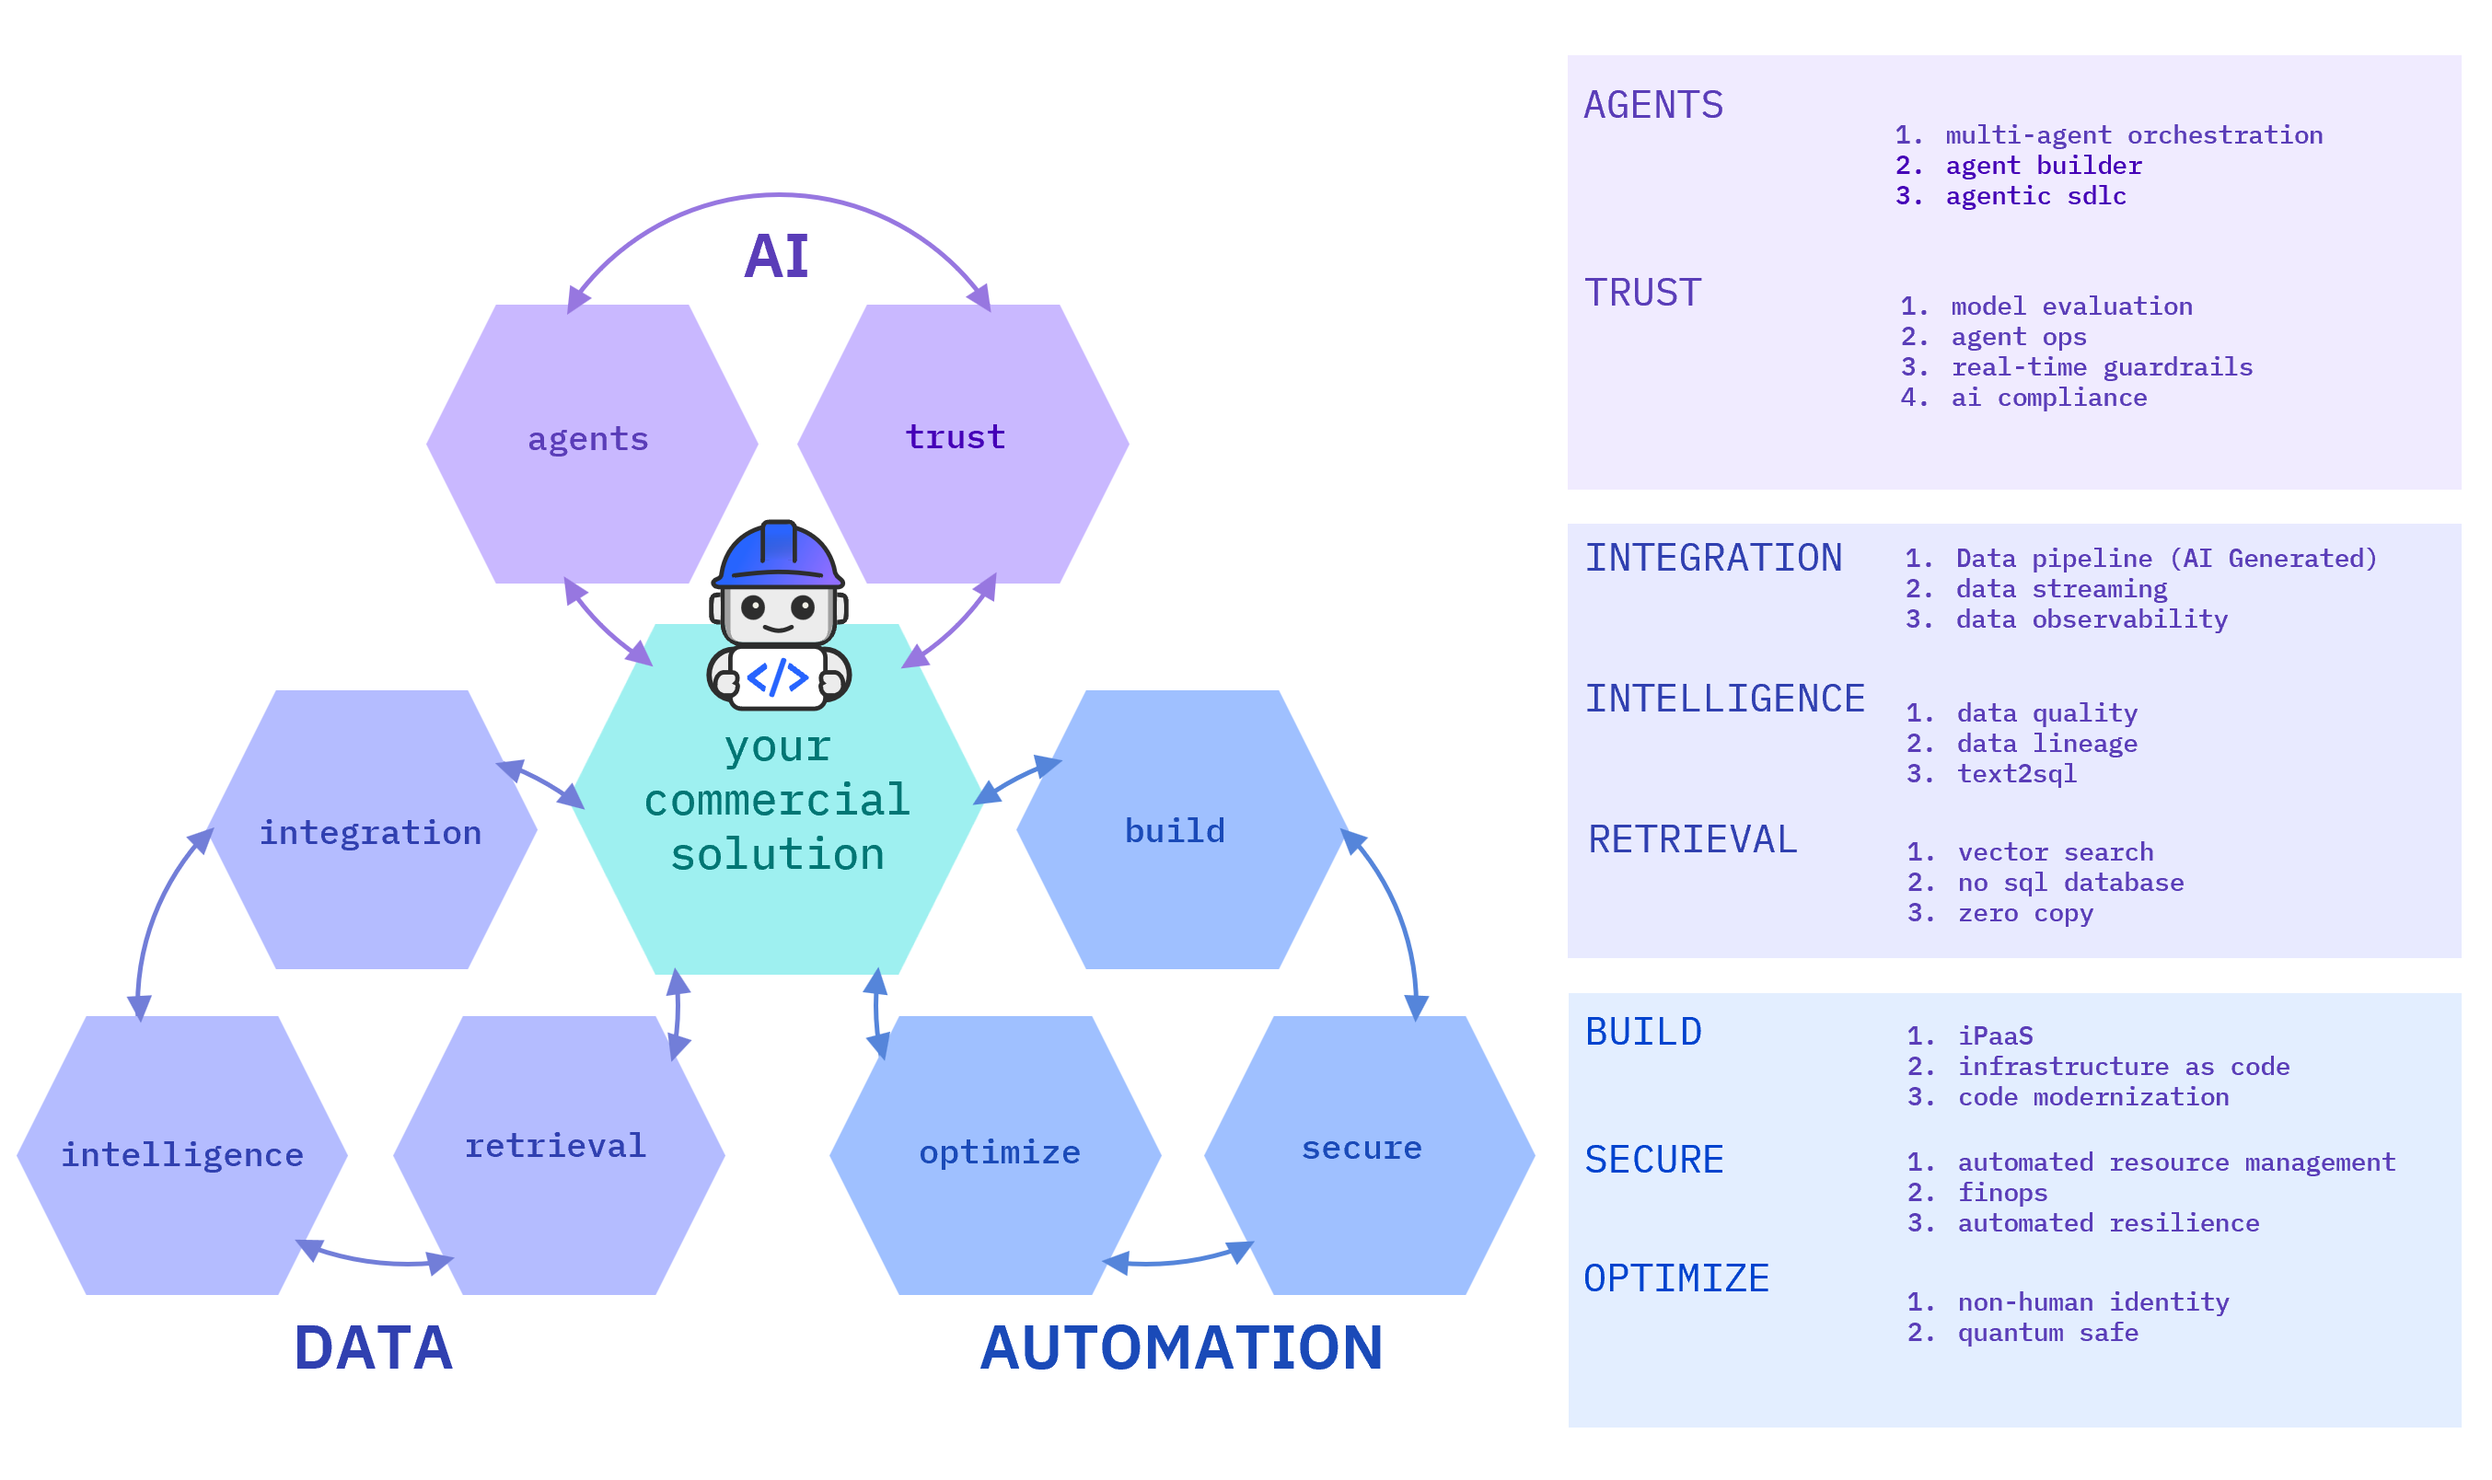
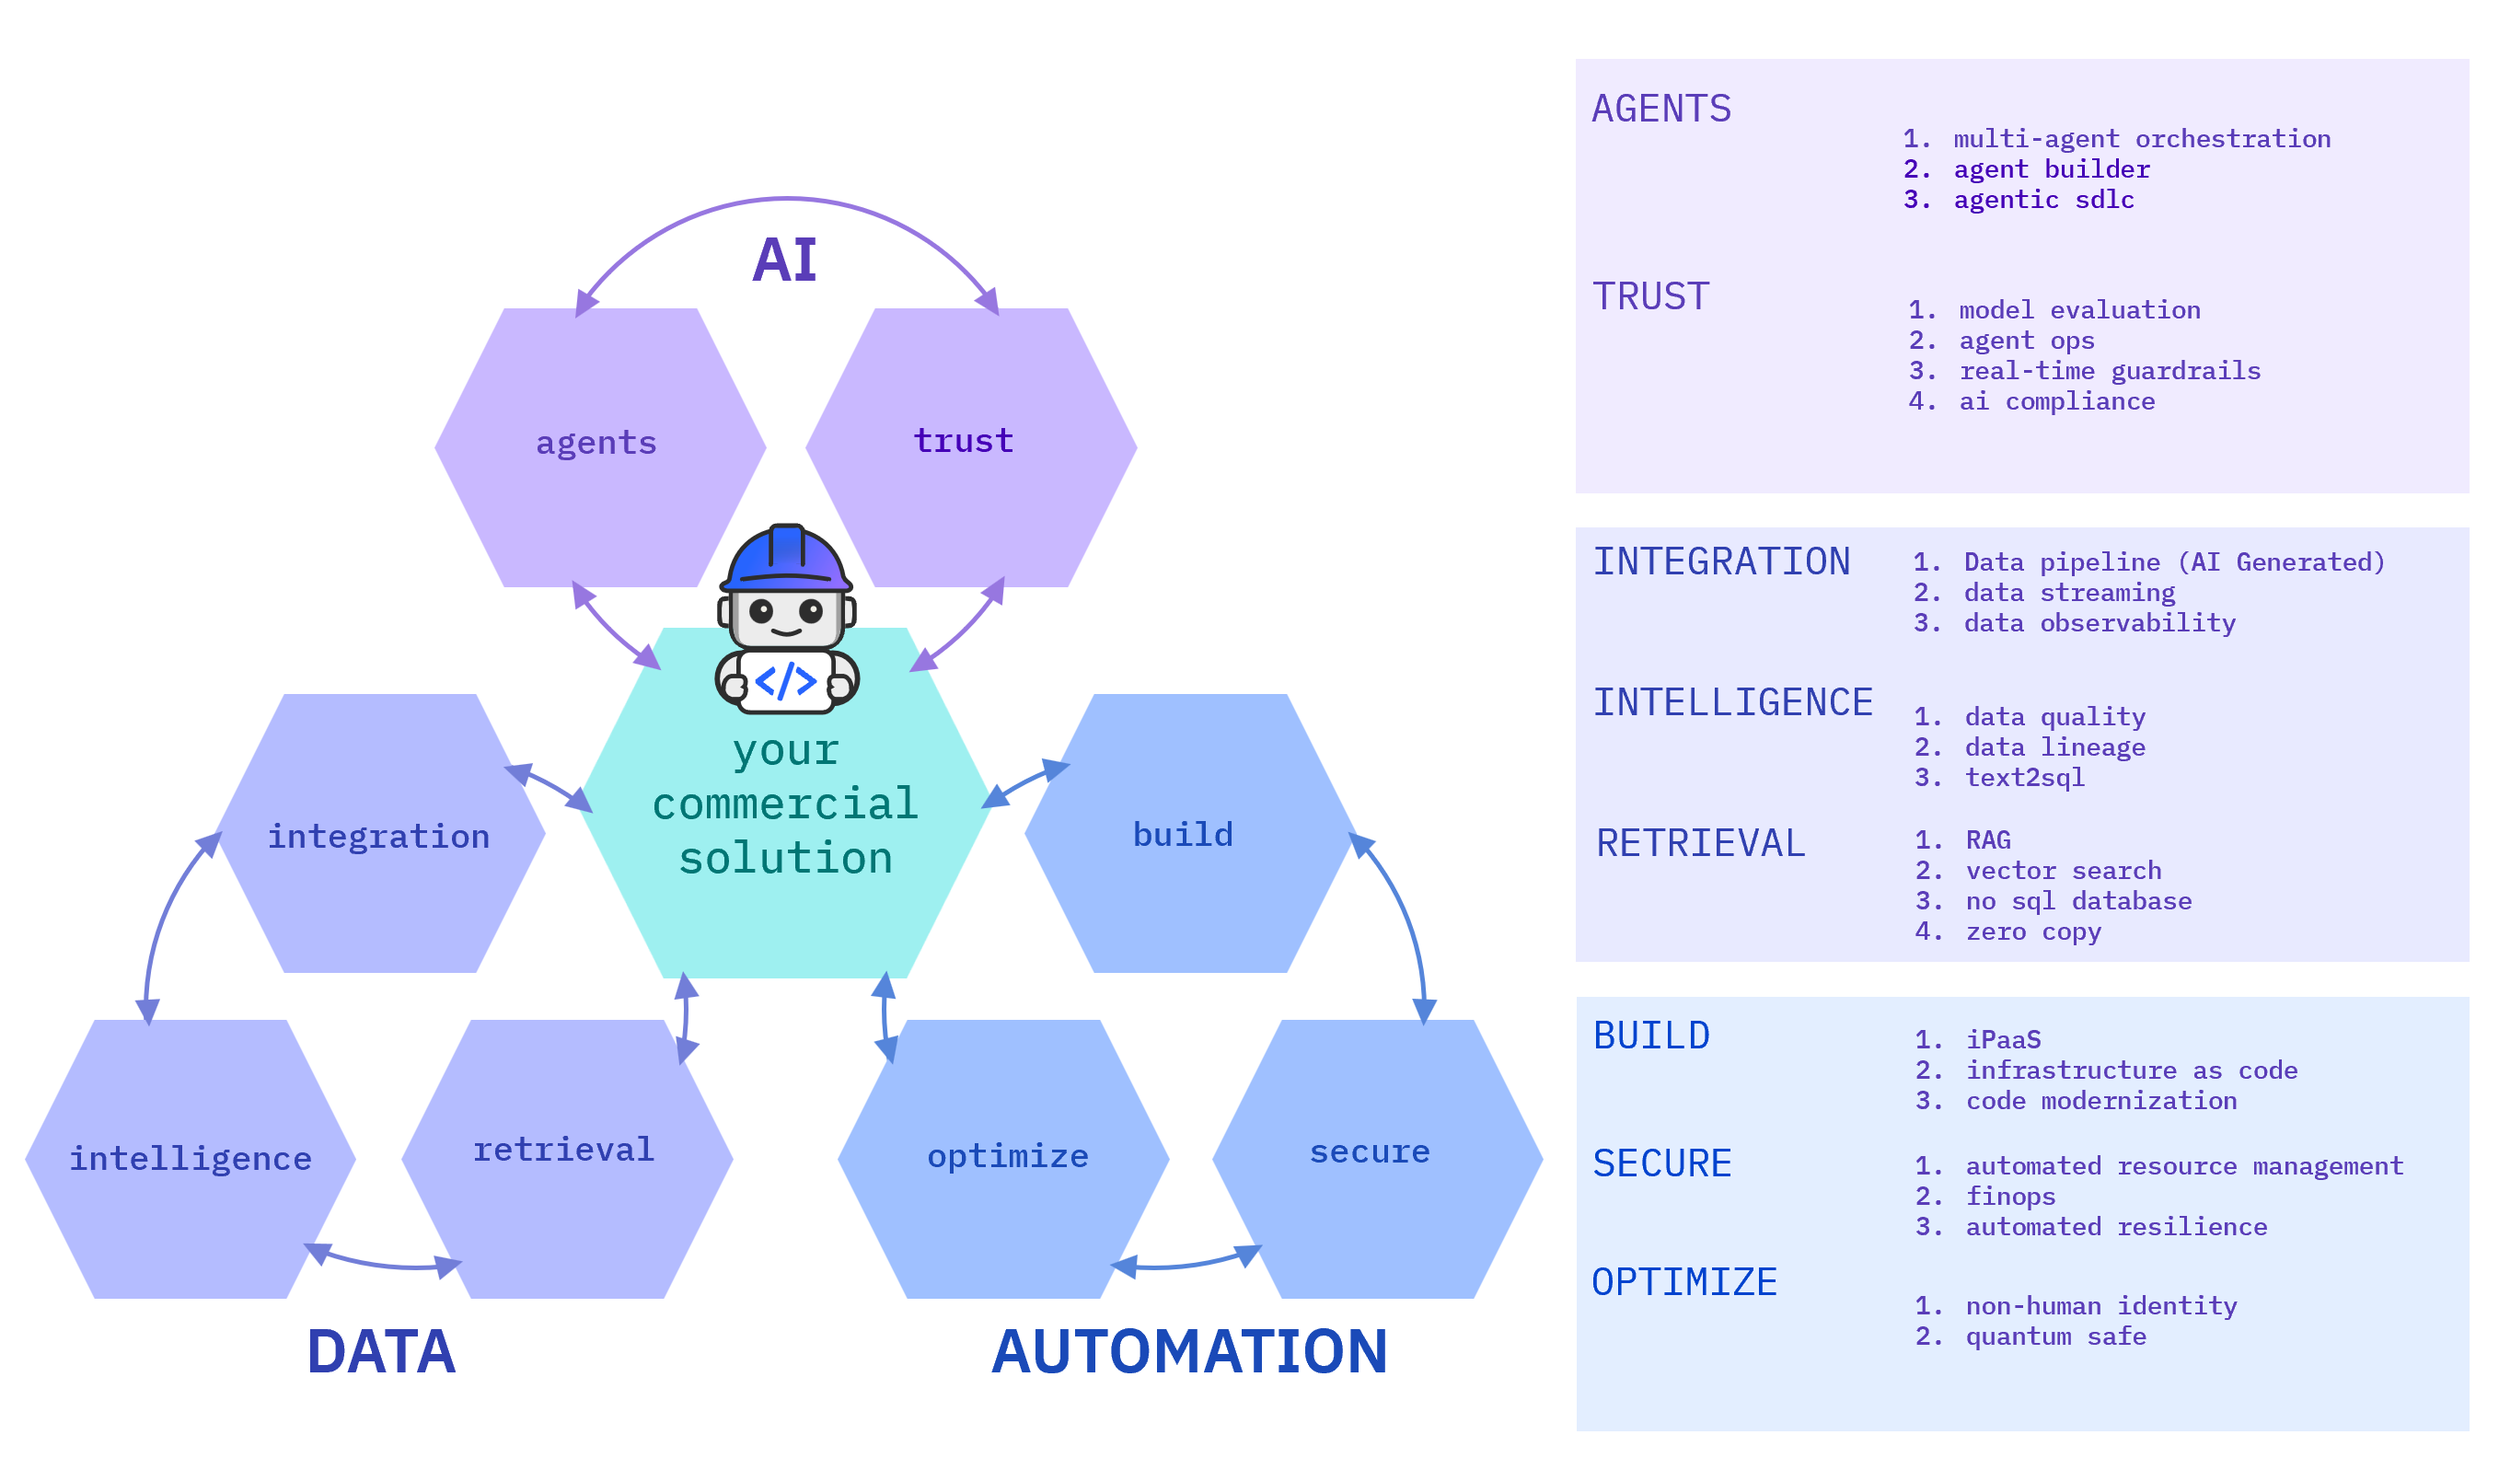
[Updated] RAG building block is added

diff --git a/docs-src/data-core/retrieval/rag/index.md b/docs-src/data-core/retrieval/rag/index.md
@@ -1,0 +1,208 @@
+# RAG (Retrieval-Augmented Generation)
+
+Complete RAG pipeline with document ingestion, embedding generation, vector storage, and semantic search capabilities. Supports both Milvus and OpenSearch as vector databases with IBM Watsonx embeddings.
+
+---
+
+## Overview
+
+The RAG building block provides a complete end-to-end pipeline for implementing Retrieval-Augmented Generation systems. It handles document processing, embedding generation, vector storage, and semantic search to enable AI applications to access and retrieve relevant information from large document collections.
+
+**Key Capabilities:**
+
+- Document ingestion from IBM Cloud Object Storage (COS)
+- Embedding generation with IBM Watsonx.ai
+- Vector storage in Milvus or OpenSearch
+- Semantic search with vector similarity
+- Keyword search with BM25 algorithm
+- Hybrid search combining semantic and keyword approaches
+- FastAPI-based REST API
+- Docker deployment ready
+- MCP server integration for AI assistants
+
+---
+
+## What's Included
+
+### Assets
+
+#### [RAG Accelerator](https://github.com/ibm-self-serve-assets/building-blocks/tree/main/data/retrieval/RAG/assets/rag-accelerator)
+
+Complete RAG pipeline with document processing, embedding, and querying capabilities.
+
+**Features:**
+
+- Ingest documents from IBM Cloud Object Storage (COS)
+- Generate embeddings with IBM Watsonx.ai
+- Store vectors in **Milvus** or **OpenSearch**
+- Perform semantic search with vector similarity
+- Keyword search with BM25 algorithm
+- Hybrid search combining semantic and keyword approaches
+- FastAPI-based REST API
+- Docker deployment ready
+
+---
+
+#### [RAG Ingestion MCP Server](https://github.com/ibm-self-serve-assets/building-blocks/tree/main/data/retrieval/RAG/assets/rag-ingestion-mcp-server)
+
+MCP server for document ingestion from IBM COS.
+
+**Features:**
+
+- Deploy as remote MCP server via SSE transport
+- Integrate with AI assistants (IBM Bob, Claude, etc.)
+- Support for multiple document formats
+- Batch ingestion capabilities
+
+---
+
+#### [RAG Retrieval MCP Server](https://github.com/ibm-self-serve-assets/building-blocks/tree/main/data/retrieval/RAG/assets/rag-retrieval-mcp-server)
+
+MCP server for semantic and keyword search.
+
+**Features:**
+
+- Semantic retrieval with Watsonx embeddings
+- Keyword search with BM25
+- Hybrid search combining both approaches
+- Works with both Milvus and OpenSearch backends
+- Configurable reranking options
+
+---
+
+### Bob Modes
+
+#### [Base Modes](https://github.com/ibm-self-serve-assets/building-blocks/tree/main/data/retrieval/RAG/bob-modes/base-modes)
+
+AI assistant modes specialized for RAG development.
+
+**Available Modes:**
+
+- **RAG Builder Mode**: Guidance for building RAG pipelines
+- **Data Generator Mode**: Help with test data generation
+- Vector database configuration (Milvus/OpenSearch)
+- Document processing and chunking strategies
+- MCP server development assistance
+- Embedding model selection and optimization
+
+---
+
+## Vector Database Support
+
+### Milvus
+
+High-performance vector database optimized for similarity search.
+
+**Features:**
+
+- High-performance vector similarity search
+- Scalable distributed architecture
+- Support for multiple index types (IVF_FLAT, HNSW, etc.)
+- Rich filtering capabilities
+- Ideal for large-scale deployments
+
+---
+
+### OpenSearch
+
+Combines vector search with full-text search capabilities.
+
+**Features:**
+
+- Combines vector search with full-text search
+- Built-in BM25 keyword search
+- Powerful aggregations and analytics
+- Familiar Elasticsearch-compatible API
+- Excellent for hybrid search scenarios
+
+---
+
+## Quick Start
+
+### 1. For Complete RAG Pipeline
+
+Navigate to [`assets/rag-accelerator`](https://github.com/ibm-self-serve-assets/building-blocks/tree/main/data/retrieval/RAG/assets/rag-accelerator) and follow the README:
+
+- Configure your vector database (Milvus or OpenSearch)
+- Set up IBM Watsonx credentials
+- Deploy via Docker or run locally
+
+### 2. For MCP Servers
+
+Choose from ingestion or retrieval MCP servers in the Assets directory:
+
+- Deploy as remote SSE-based MCP servers
+- Integrate with AI coding assistants
+- Enable RAG capabilities in your AI workflows
+
+### 3. For AI Assistance
+
+Use the Bob Mode configurations in [`bob-modes/base-modes`](https://github.com/ibm-self-serve-assets/building-blocks/tree/main/data/retrieval/RAG/bob-modes/base-modes) with IBM Bob:
+
+- Import the RAG Builder or Data Generator modes
+- Get expert guidance on RAG implementation
+- Optimize your RAG pipeline design
+
+---
+
+## Use Cases
+
+!!! example "Common RAG Applications"
+
+    **Question Answering**: Build intelligent Q&A systems over your documents
+    
+    **Semantic Search**: Find relevant information based on meaning, not just keywords
+    
+    **Document Analysis**: Extract insights from large document collections
+    
+    **Knowledge Management**: Create searchable knowledge bases from unstructured data
+    
+    **AI Assistant Integration**: Add RAG capabilities to AI coding assistants via MCP
+    
+    **Hybrid Search**: Combine semantic understanding with keyword precision
+
+---
+
+## Architecture
+
+```mermaid
+graph LR
+    A[Documents in COS] --> B[RAG Ingestion]
+    B --> C[IBM Watsonx.ai<br/>Embeddings]
+    C --> D{Vector Database}
+    D --> E[Milvus]
+    D --> F[OpenSearch]
+    G[User Query] --> H[RAG Retrieval]
+    H --> C
+    C --> D
+    E --> I[Search Results]
+    F --> I
+    I --> J[AI Application]
+```
+
+---
+
+## IBM Products Used
+
+- **IBM Watsonx.ai**: Embedding generation and LLM capabilities
+- **IBM Cloud Object Storage (COS)**: Document storage and ingestion
+- **Milvus**: High-performance vector database (optional)
+- **OpenSearch**: Hybrid vector and keyword search (optional)
+
+---
+
+## Resources
+
+- [GitHub Repository - RAG Building Block](https://github.com/ibm-self-serve-assets/building-blocks/tree/main/data/retrieval/RAG)
+- [RAG Accelerator](https://github.com/ibm-self-serve-assets/building-blocks/tree/main/data/retrieval/RAG/assets/rag-accelerator)
+- [RAG Ingestion MCP Server](https://github.com/ibm-self-serve-assets/building-blocks/tree/main/data/retrieval/RAG/assets/rag-ingestion-mcp-server)
+- [RAG Retrieval MCP Server](https://github.com/ibm-self-serve-assets/building-blocks/tree/main/data/retrieval/RAG/assets/rag-retrieval-mcp-server)
+- [IBM Watsonx.ai Documentation](https://www.ibm.com/docs/en/watsonx-as-a-service)
+- [Milvus Documentation](https://milvus.io/docs)
+- [OpenSearch Documentation](https://opensearch.org/docs/latest/)
+
+---
+
+## Support
+
+For issues or questions, please refer to the [GitHub repository](https://github.com/ibm-self-serve-assets/building-blocks/tree/main/data/retrieval/RAG) or contact IBM support.

diff --git a/docs-src/data-core/retrieval/index.md b/docs-src/data-core/retrieval/index.md
@@ -10,6 +10,28 @@ Retrieval capabilities provide the "data access layer" for AI applications, enab
 
 ## Available Building Blocks
 
+### [RAG (Retrieval-Augmented Generation)](rag/index.md)
+
+Complete RAG pipeline with document ingestion, embedding generation, vector storage, and semantic search capabilities.
+
+**Key Features:**
+
+- Document ingestion from IBM Cloud Object Storage
+- Embedding generation with IBM Watsonx.ai
+- Vector storage (Milvus or OpenSearch)
+- Semantic, keyword, and hybrid search
+- MCP server integration for AI assistants
+- Bob modes for RAG development guidance
+
+**Components:**
+
+- **RAG Accelerator**: Complete pipeline with FastAPI REST API
+- **RAG Ingestion MCP Server**: Document ingestion for AI assistants
+- **RAG Retrieval MCP Server**: Semantic and keyword search
+- **Bob Modes**: AI assistant modes for RAG development
+
+---
+
 ### [Vector Search](vector-search/index.md)
 
 Vector ingestion, embedding, and retrieval for semantic similarity search in GenAI pipelines.
@@ -66,8 +88,12 @@ Federated analytics without copying data. Query data across distributed sources 
 ## Use Cases
 
 !!! example "Common Retrieval Scenarios"
+    - **RAG Systems**: Build complete Retrieval-Augmented Generation pipelines
+    - **Question Answering**: Intelligent Q&A over document collections
     - **Semantic Search**: Find documents based on meaning, not just keywords
-    - **Vector Similarity**: Build RAG systems with semantic document retrieval
+    - **Hybrid Search**: Combine semantic understanding with keyword precision
+    - **Knowledge Management**: Create searchable knowledge bases from unstructured data
+    - **AI Assistant Integration**: Add RAG capabilities via MCP servers
     - **Multi-Cloud Analytics**: Query data across AWS, IBM Cloud, and on-premises
     - **Real-Time Insights**: Access live data without ETL delays
     - **NoSQL Storage**: Scalable storage for AI application data
